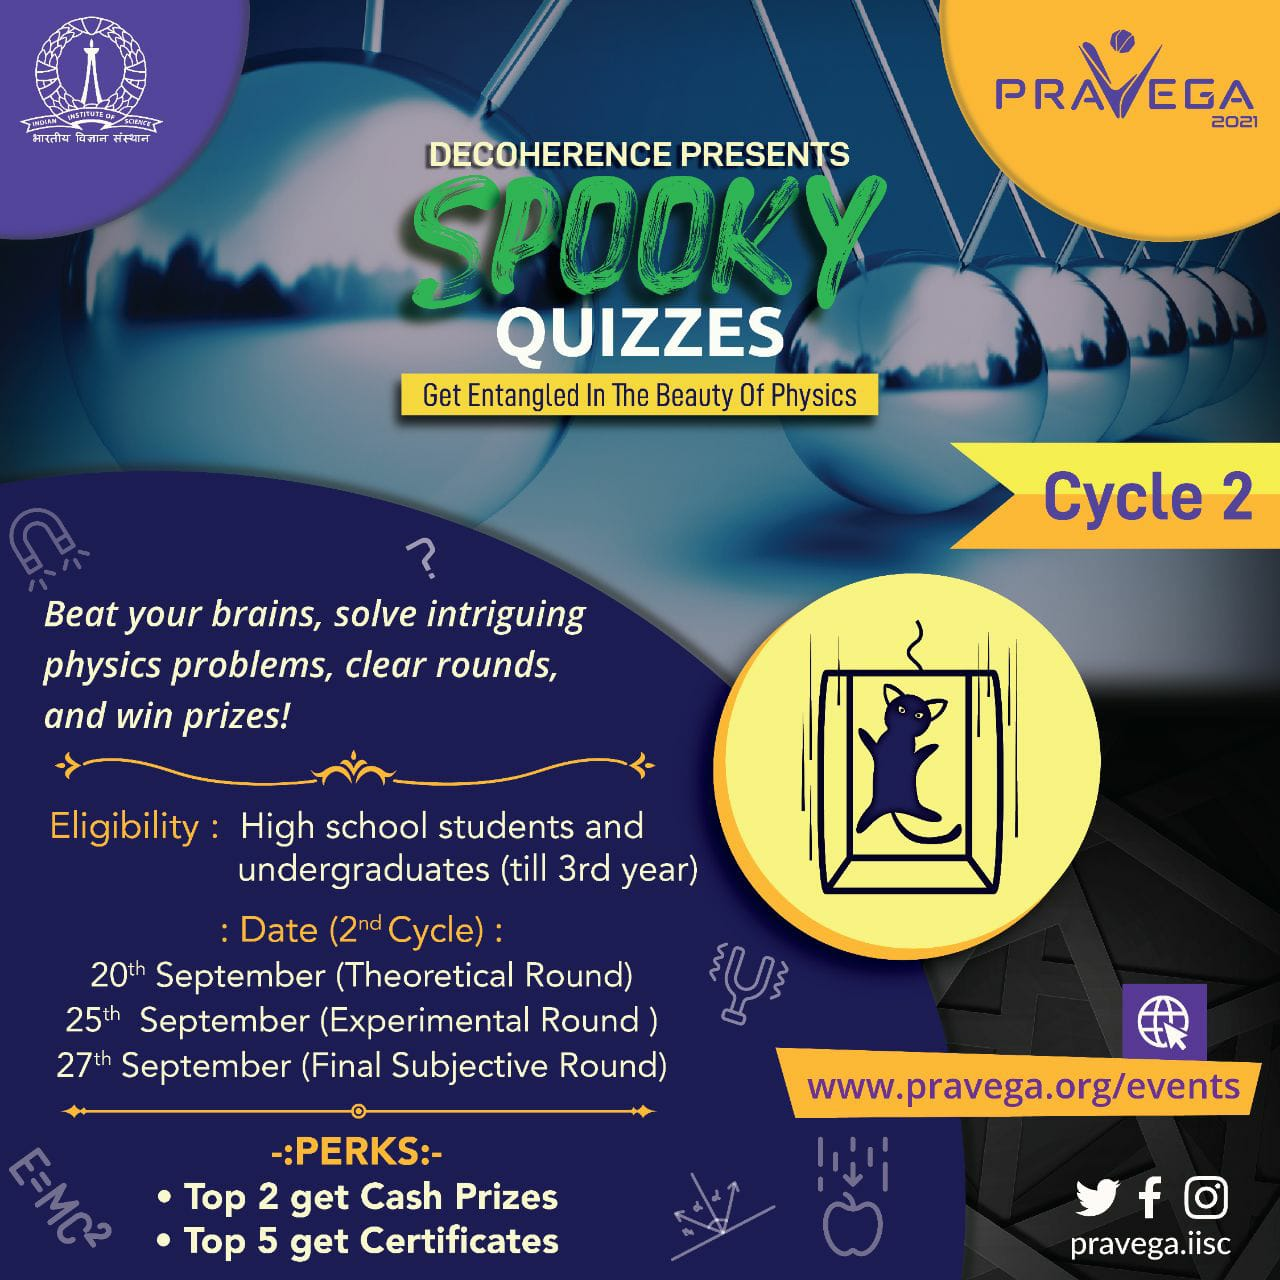
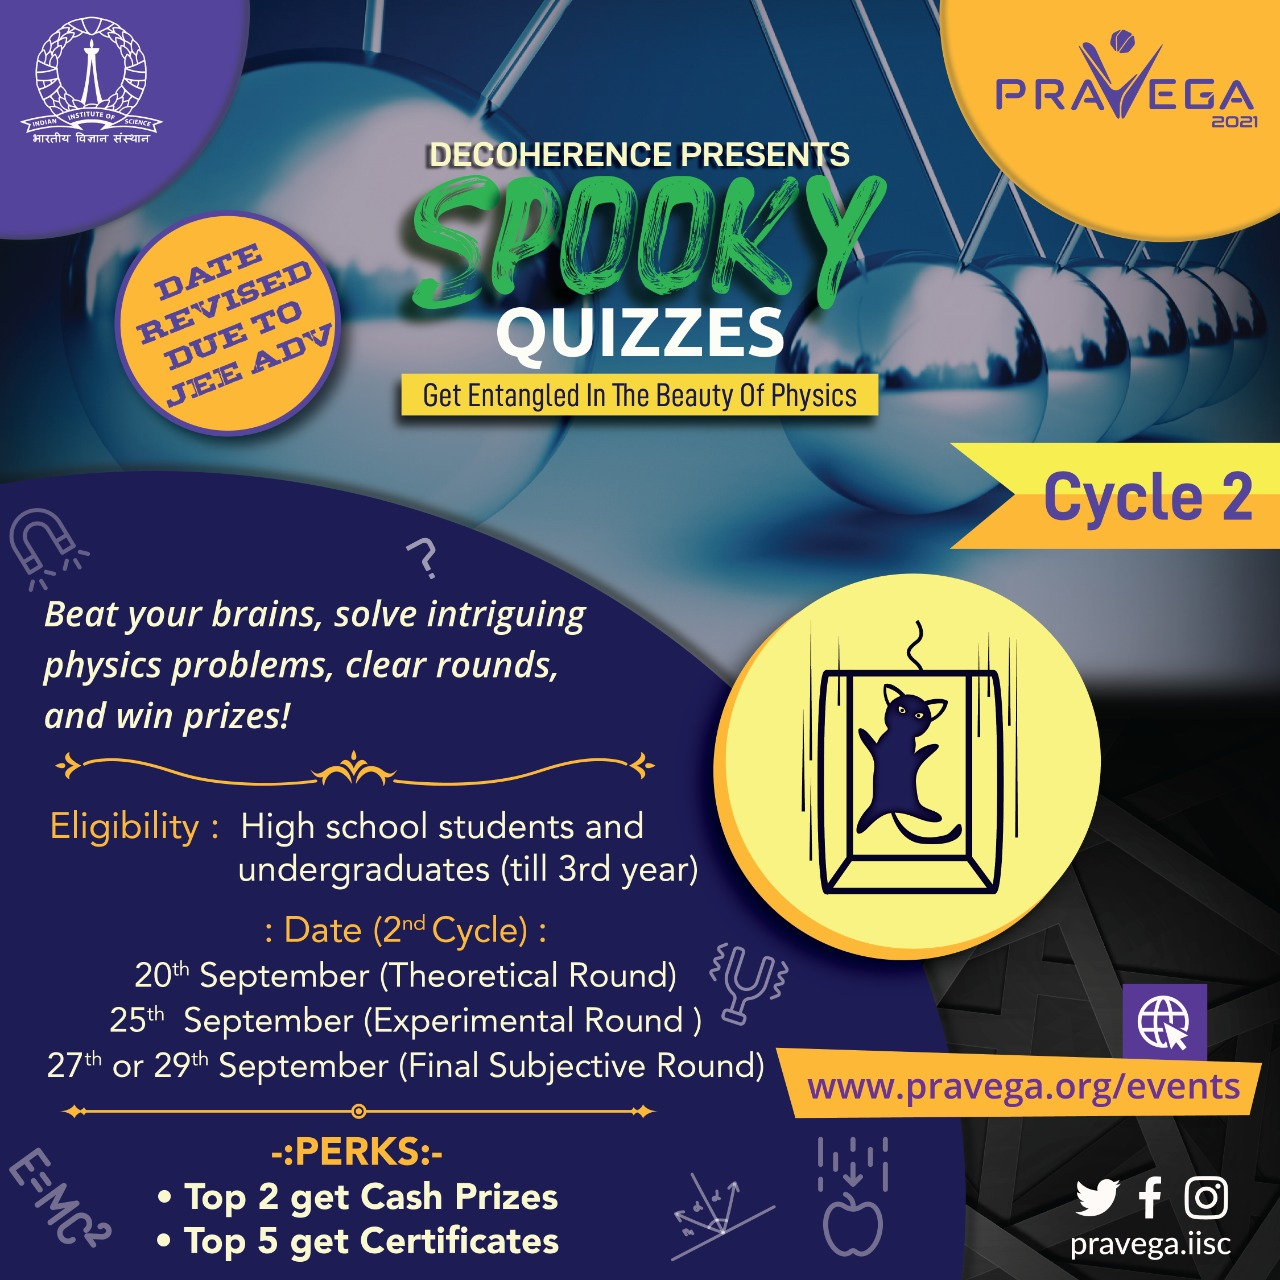
Updates to decoherence

diff --git a/public/old_front_end/events/science_eve/decoherence.html b/public/old_front_end/events/science_eve/decoherence.html
@@ -308,8 +308,7 @@
                                         time: "5 PM",
                                     },
                                     links: {
-                                        ms_platform: true,
-                                        ms_link: "http://bit.ly/CohLec3",
+                                        ms_platform: false,
                                         youtube_platform: true,
                                         youtube_link: "https://www.youtube.com/watch?v=zEBatW8vUsg&list=PLkD-0Bstxv780parXcQsLeSQSPqOS_inf&index=3",
                                     },
@@ -328,8 +327,7 @@
                                         time: "5 PM",
                                     },
                                     links: {
-                                        ms_platform: true,
-                                        ms_link: "http://bit.ly/CohLec4",
+                                        ms_platform: false,
                                         youtube_platform: true,
                                         youtube_link: "https://www.youtube.com/watch?v=Oy_vWHSHxC4",
                                     },
@@ -488,9 +486,11 @@
                                     Undergraduates(1st,2nd,3rd year) register through the link below.
                                     <br>
                                     <br>
-                                    <a href="pdfs/Spooky_RulesAndRegulations.pdf">Click here to download rules and regulations</a>
+                                    <a href="pdfs/Spooky_RulesAndRegulations.pdf">Click here to download rules and
+                                        regulations</a>
                                     <br>
-                                    <a href="pdfs/Spooky_Instructions.pdf">Click here to view instructions on how to submit responses</a>
+                                    <a href="pdfs/Spooky_Instructions.pdf">Click here to view instructions on how to
+                                        submit responses</a>
                                 </p>
                                 <p>
                                     <b>Prizes</b> A common leaderboard will be maintained for all the participants for
@@ -548,9 +548,17 @@
 
                                         <h4>Subjective Round</h4>
                                         <ul class="portfolio-meta m-bot-30">
-                                            <li><span>Date</span> 27<sup>th</sup> September</li>
+                                            <li><span>Date*</span> 27<sup>th</sup> or 29<sup>th</sup> September</li>
                                             <li><span>Time</span> Will be updated soon</li>
                                         </ul>
+                                        <p style="color: #888888; font-size: 12px;">
+                                            *
+                                            Keeping in mind the clash of Spooky Quiz with JEE Advanced, we have revised
+                                            the dates of the final subjective round. Finalists who will have JEE on
+                                            Sunday (27th September 2020) can take the final exam on Tuesday (29th
+                                            September 2020) ! We have kept two dates available for the participants
+                                            keeping in mind the online classes of the college and university candidates.
+                                        </p>
                                         <p>
                                             <b>Note:</b> More details about quizzes (like timings) will be updated soon
                                             and
@@ -641,7 +649,7 @@
                             </div>
                         </div>
                         <br>
-                        <hr/>
+                        <hr />
 
                         <div class="col-md-12">
                             <div class="portfolio-nav-row">
